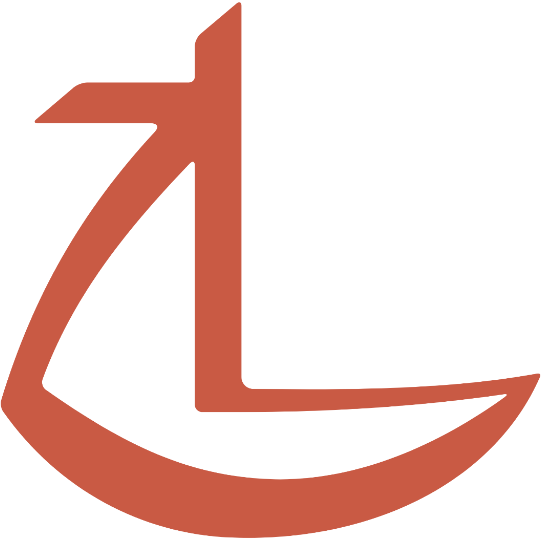
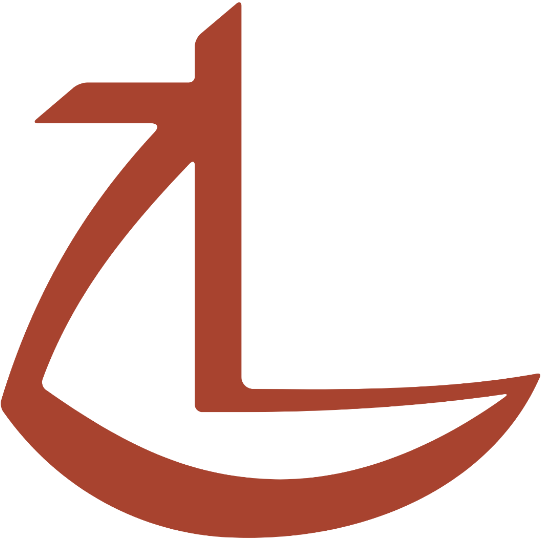
fix(brand): align TaraBase boat mark and animated ripples to #A8432F and #5C2318

Changed region(s): [[0.0, 0.0, 1.0, 1.0]]

diff --git a/src/components/AnimatedTarabaseLogo.tsx b/src/components/AnimatedTarabaseLogo.tsx
@@ -71,13 +71,13 @@ export default function AnimatedTarabaseLogo({
         <div
           className={`relative w-20 h-20 transition-all duration-300 ${
             stage === "sailing"
-              ? "animate-quiet-moor-sail filter drop-shadow-[0_8px_16px_rgba(201,90,68,0.22)]"
+              ? "animate-quiet-moor-sail filter drop-shadow-[0_8px_16px_rgba(168,67,47,0.22)]"
               : "group-hover:scale-105"
           }`}
         >
           {/* Ambient Terracotta Glow while sailing */}
           <div
-            className={`absolute inset-0 rounded-full bg-[#c95a44]/12 blur-lg transition-opacity duration-500 pointer-events-none ${
+            className={`absolute inset-0 rounded-full bg-[#a8432f]/12 blur-lg transition-opacity duration-500 pointer-events-none ${
               stage === "sailing" ? "opacity-100" : "opacity-0"
             }`}
           />
@@ -195,7 +195,7 @@ export default function AnimatedTarabaseLogo({
               {/* Quiet harbor ripple 1 */}
               <path
                 d="M 10 10 Q 30 14, 50 10 T 90 10"
-                stroke="#c95a44"
+                stroke="#a8432f"
                 strokeWidth="1.75"
                 strokeLinecap="round"
                 className="animate-quiet-wave-1"
@@ -204,7 +204,7 @@ export default function AnimatedTarabaseLogo({
               {/* Quiet harbor ripple 2 */}
               <path
                 d="M 20 15 Q 40 11, 60 15 T 80 15"
-                stroke="#814038"
+                stroke="#5c2318"
                 strokeWidth="1.25"
                 strokeLinecap="round"
                 className="animate-quiet-wave-2"
